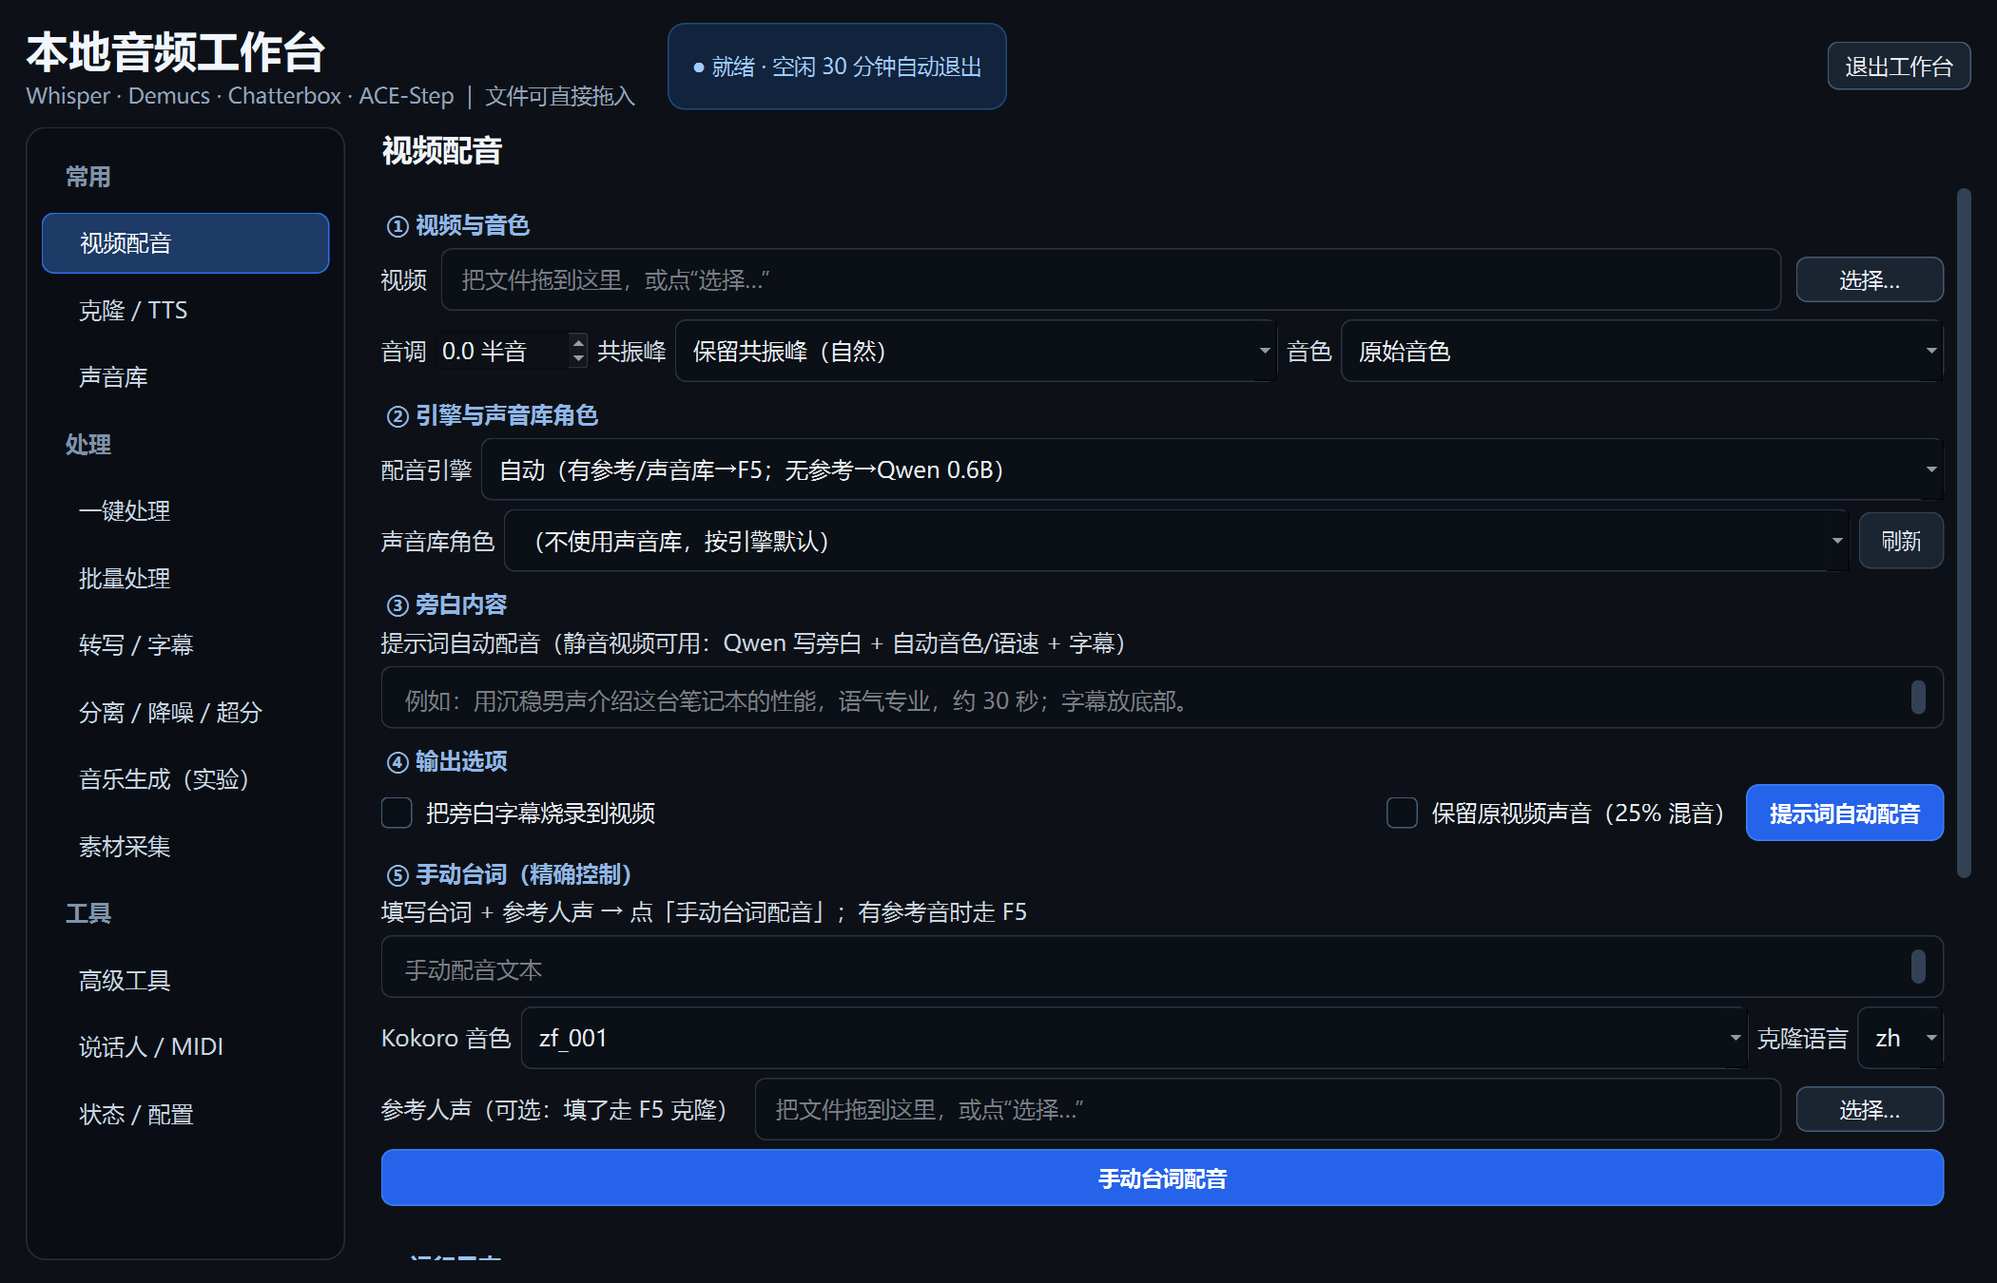
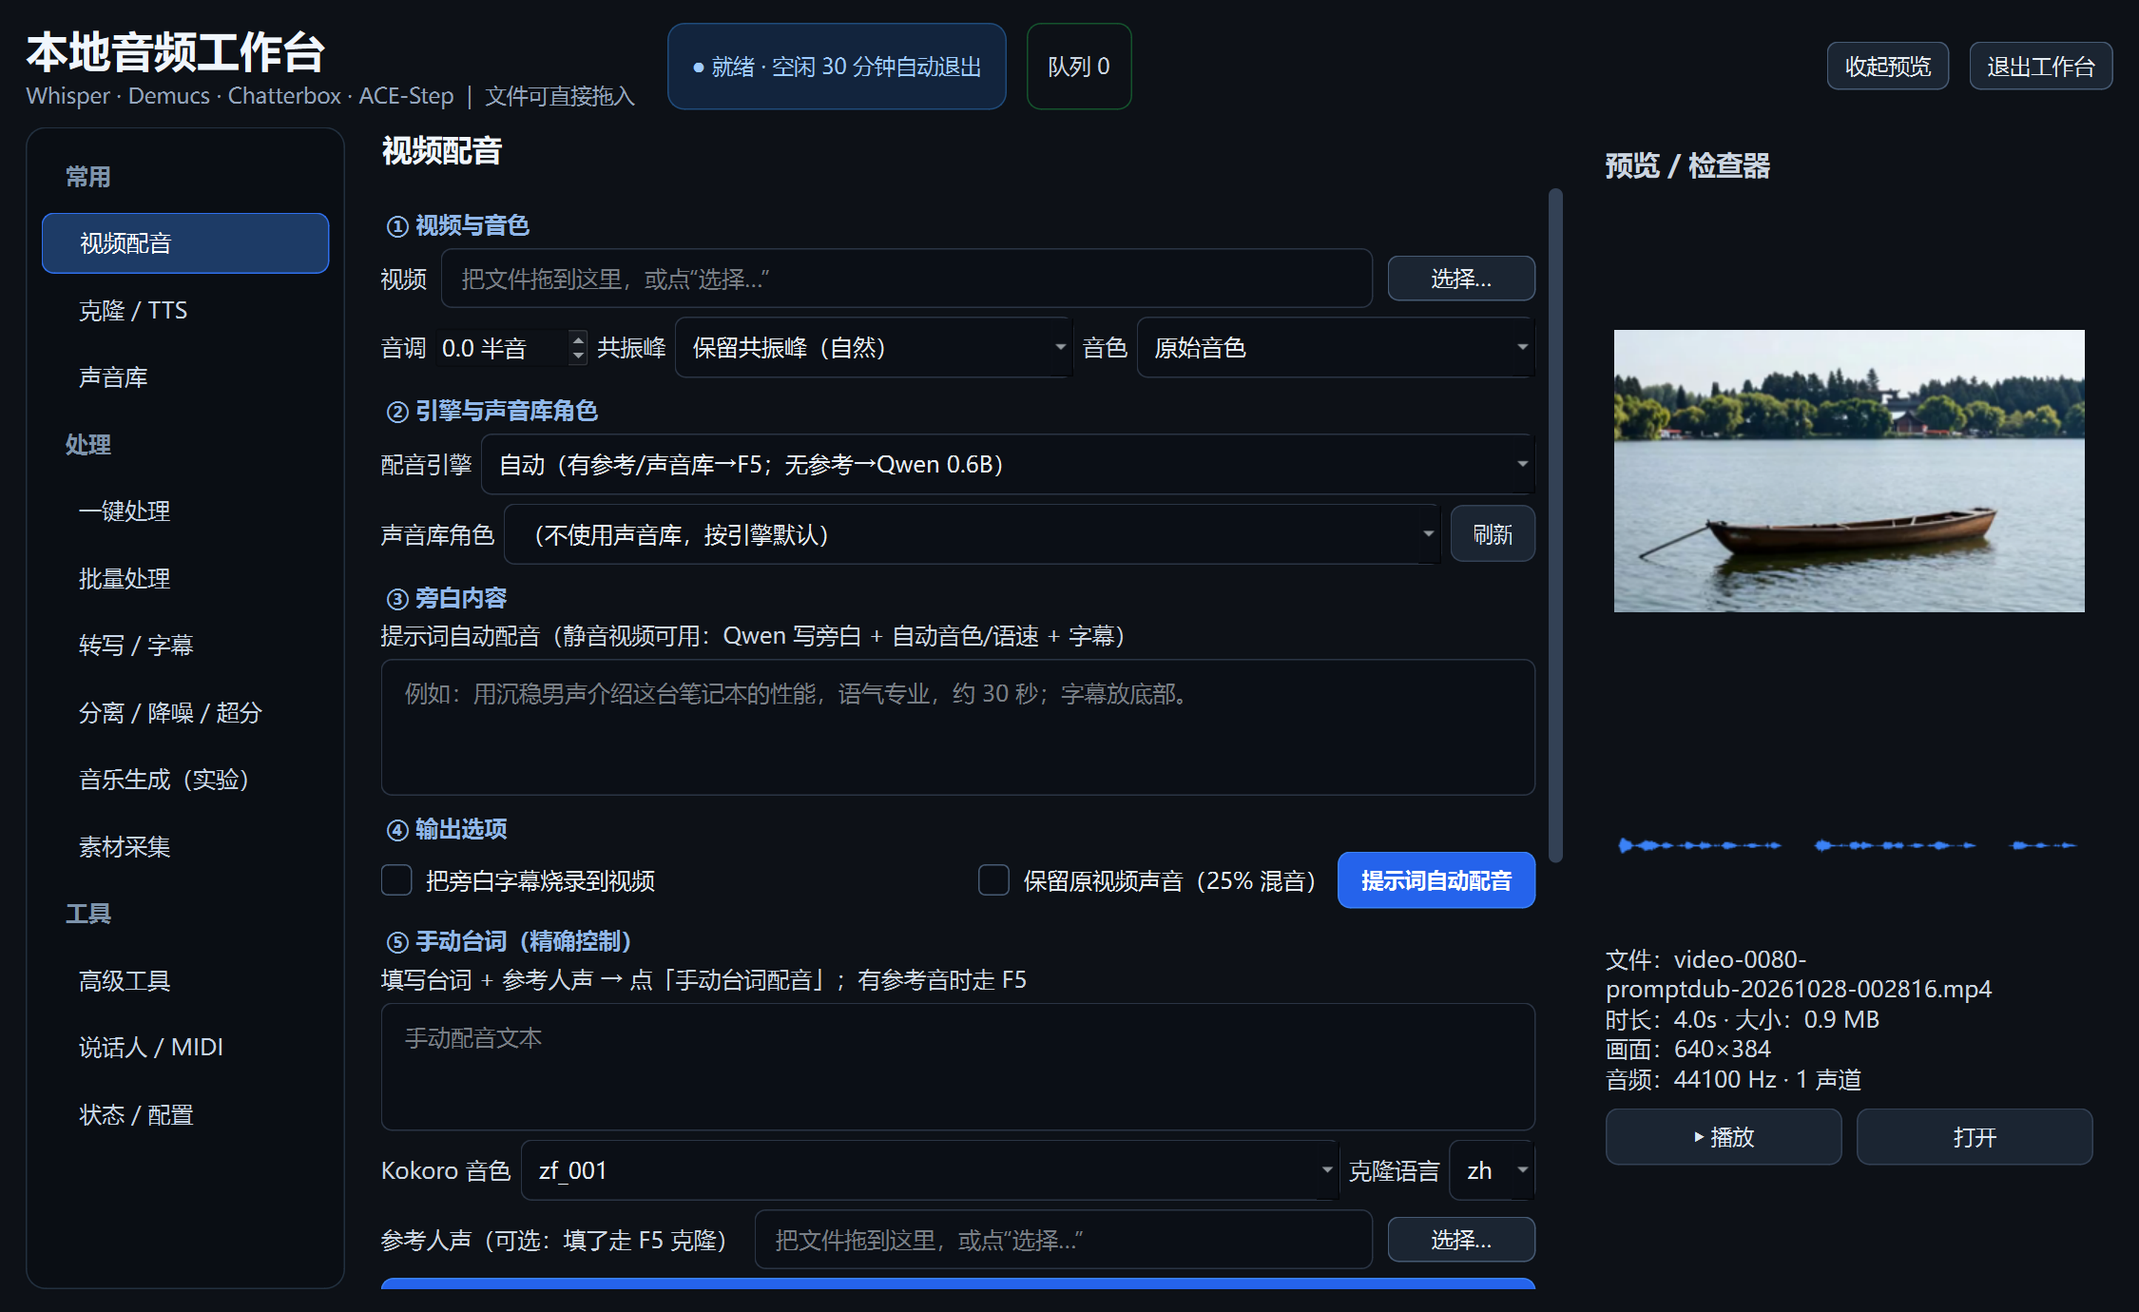
ui(workbench): three-column layout with media inspector (frame/waveform/info/play)

diff --git a/scripts/audio/desktop_qt.py b/scripts/audio/desktop_qt.py
@@ -1,13 +1,16 @@
 # -*- coding: utf-8 -*-
 """Audio workbench — native PySide6 desktop app (no Gradio / WebView)."""
+import json
 import os
+import subprocess
 import sys
+import tempfile
 import time
 import traceback
 from pathlib import Path
 
 from PySide6.QtCore import QEvent, QSettings, QThread, QTimer, Qt, QUrl, Signal
-from PySide6.QtGui import QDesktopServices, QFont, QGuiApplication, QPalette, QColor
+from PySide6.QtGui import QColor, QDesktopServices, QFont, QGuiApplication, QPalette, QPixmap
 from PySide6.QtWidgets import (
     QApplication, QCheckBox, QComboBox, QDoubleSpinBox, QFileDialog, QFormLayout, QGroupBox,
     QHBoxLayout, QLabel, QLineEdit, QListWidget, QListWidgetItem, QMainWindow,
@@ -47,7 +50,7 @@ QTabBar::tab:selected { background: #1b2638; color: #e6edf3; border: 1px solid #
 QTabBar::tab:hover { color: #e6edf3; background: #151d2a; }
 QLineEdit, QPlainTextEdit, QComboBox, QSpinBox {
     background: #0b0f16; border: 1px solid #2a3444; border-radius: 8px;
-    padding: 9px 12px; min-height: 24px; font-size: 12pt; color: #e6edf3; selection-background-color: #2f6fed; }
+    padding: 9px 12px; font-size: 12pt; color: #e6edf3; selection-background-color: #2f6fed; }
 QLineEdit:focus, QPlainTextEdit:focus, QComboBox:focus, QSpinBox:focus { border: 1px solid #3b82f6; }
 QLineEdit[dragActive="true"] { border: 1px solid #4ade80; background: #0f1f18; }
 QPushButton { background: #1b2532; border: 1px solid #334155; border-radius: 9px;
@@ -87,6 +90,10 @@ QListWidget#sideNav::item:selected { background: #1d3b66; border: 1px solid #2f6
 QListWidget#sideNav::item:hover { background: #15202f; }
 QListWidget#sideNav::item:disabled { color: #7d93ab; font-weight: 700; }
 QLabel#pageTitle { font-size: 21px; font-weight: 800; color: #f0f6fc; padding: 2px 4px 4px 4px; }
+QWidget#inspector { background: #0a0f16; border: 1px solid #22303f; border-radius: 14px; }
+QLabel#inspectorTitle { font-size: 14pt; font-weight: 800; color: #e6edf3; }
+QLabel#queuePill { color: #a7f3d0; font-size: 11pt; background: #0d2a1f; border: 1px solid #14532d;
+    border-radius: 10px; padding: 4px 10px; }
 QScrollArea { border: none; background: transparent; }
 """
 
@@ -330,6 +337,194 @@ class OutputList(QListWidget):
             QDesktopServices.openUrl(QUrl.fromLocalFile(path))
 
 
+class InspectorPanel(QWidget):
+    """右侧预览/检查器：视频帧、波形、音频信息、播放。"""
+
+    def __init__(self, parent=None):
+        super().__init__(parent)
+        self.setObjectName("inspector")
+        self.setFixedWidth(370)
+        self._path = ""
+        self._is_video = False
+        self.player = None
+        self.audio_out = None
+        self.video = None
+
+        v = QVBoxLayout(self)
+        v.setContentsMargins(14, 14, 14, 14)
+        v.setSpacing(10)
+        title = QLabel("预览 / 检查器")
+        title.setObjectName("inspectorTitle")
+        v.addWidget(title)
+
+        self.stack = QStackedWidget()
+        self.thumb = QLabel("视频预览")
+        self.thumb.setAlignment(Qt.AlignCenter)
+        self.thumb.setMinimumHeight(190)
+        self.thumb.setStyleSheet("background:#05070b;border:1px solid #1b2634;border-radius:8px;color:#5b6b80;")
+        self.stack.addWidget(self.thumb)
+        try:
+            from PySide6.QtMultimediaWidgets import QVideoWidget
+            self.video = QVideoWidget()
+            self.video.setMinimumHeight(190)
+            self.stack.addWidget(self.video)
+        except Exception:
+            self.video = None
+        v.addWidget(self.stack)
+
+        self.wave = QLabel("选择视频/音频后显示波形")
+        self.wave.setAlignment(Qt.AlignCenter)
+        self.wave.setMinimumHeight(120)
+        self.wave.setStyleSheet("background:#05070b;border:1px solid #1b2634;border-radius:8px;color:#5b6b80;")
+        v.addWidget(self.wave)
+
+        self.info = QLabel("尚未选择媒体")
+        self.info.setWordWrap(True)
+        self.info.setStyleSheet("color:#93a4bb;font-size:11pt;")
+        v.addWidget(self.info)
+
+        row = QHBoxLayout()
+        self.play_btn = QPushButton("▶ 播放")
+        self.play_btn.setEnabled(False)
+        self.play_btn.clicked.connect(self.toggle_play)
+        self.open_btn = QPushButton("打开")
+        self.open_btn.setEnabled(False)
+        self.open_btn.clicked.connect(self.open_external)
+        row.addWidget(self.play_btn)
+        row.addWidget(self.open_btn)
+        v.addLayout(row)
+        v.addStretch(1)
+
+        try:
+            from PySide6.QtMultimedia import QAudioOutput, QMediaPlayer
+            self.player = QMediaPlayer(self)
+            self.audio_out = QAudioOutput(self)
+            self.player.setAudioOutput(self.audio_out)
+            if self.video is not None:
+                self.player.setVideoOutput(self.video)
+            self.player.playbackStateChanged.connect(self._on_state)
+        except Exception:
+            self.player = None
+
+    @staticmethod
+    def _ffprobe(path):
+        try:
+            p = subprocess.run(
+                [r"D:\tools\ffmpeg\bin\ffprobe.exe", "-v", "error", "-show_entries",
+                 "format=duration,size:stream=codec_type,width,height,sample_rate,channels",
+                 "-of", "json", str(path)],
+                capture_output=True, text=True, encoding="utf-8", errors="replace", timeout=30)
+            return json.loads(p.stdout or "{}")
+        except Exception:
+            return {}
+
+    def _make_frame(self, path):
+        try:
+            out = Path(tempfile.gettempdir()) / ("wb_frame_" + str(abs(hash(path))) + ".png")
+            subprocess.run(
+                [r"D:\tools\ffmpeg\bin\ffmpeg.exe", "-y", "-ss", "0", "-i", str(path),
+                 "-frames:v", "1", "-vf", "scale=320:-2", str(out)],
+                capture_output=True, timeout=60)
+            pix = QPixmap(str(out))
+            return pix if not pix.isNull() else None
+        except Exception:
+            return None
+
+    def _make_wave(self, path):
+        try:
+            out = Path(tempfile.gettempdir()) / ("wb_wave_" + str(abs(hash(path))) + ".png")
+            subprocess.run(
+                [r"D:\tools\ffmpeg\bin\ffmpeg.exe", "-y", "-t", "120", "-i", str(path),
+                 "-filter_complex", "showwavespic=s=680x130:colors=#3b82f6",
+                 "-frames:v", "1", str(out)],
+                capture_output=True, timeout=90)
+            pix = QPixmap(str(out))
+            return pix if not pix.isNull() else None
+        except Exception:
+            return None
+
+    def _show_thumb(self):
+        if self._is_video and self.video is not None:
+            self.stack.setCurrentWidget(self.thumb)
+
+    def show_media(self, path):
+        path = (path or "").strip()
+        if not path or not Path(path).exists():
+            return
+        self._path = path
+        if self.player is not None:
+            self.player.stop()
+        ext = Path(path).suffix.lower()
+        self._is_video = ext in {".mp4", ".mov", ".mkv", ".webm", ".avi"}
+        if self._is_video:
+            self.stack.show()
+            pix = self._make_frame(path)
+            if pix is not None:
+                self.thumb.setPixmap(pix.scaledToWidth(330, Qt.SmoothTransformation))
+                self.thumb.setText("")
+            else:
+                self.thumb.setText("视频（无法提取画面）")
+            self._show_thumb()
+        else:
+            self.stack.hide()
+        wave = self._make_wave(path)
+        if wave is not None:
+            self.wave.setPixmap(wave.scaledToWidth(330, Qt.SmoothTransformation))
+            self.wave.setText("")
+        else:
+            self.wave.setPixmap(QPixmap())
+            self.wave.setText("无音轨或波形生成失败")
+        info = self._ffprobe(path)
+        fmt = info.get("format", {}) or {}
+        sec = float(fmt.get("duration") or 0)
+        size = float(fmt.get("size") or 0) / 1024 / 1024
+        lines = [f"文件：{Path(path).name}", f"时长：{sec:.1f}s · 大小：{size:.1f} MB"]
+        for st in info.get("streams", []) or []:
+            if st.get("codec_type") == "video":
+                lines.append(f"画面：{st.get('width')}×{st.get('height')}")
+            elif st.get("codec_type") == "audio":
+                lines.append(f"音频：{st.get('sample_rate')} Hz · {st.get('channels')} 声道")
+        self.info.setText("\n".join(lines))
+        if self.player is not None:
+            self.player.setSource(QUrl.fromLocalFile(path))
+        self.play_btn.setEnabled(self.player is not None)
+        self.open_btn.setEnabled(True)
+
+    def show_result(self, files):
+        files = [str(x) for x in (files or []) if Path(str(x)).exists()]
+        if not files:
+            return
+        videos = [x for x in files if Path(x).suffix.lower() in {".mp4", ".mov", ".mkv", ".webm"}]
+        audit = [x for x in files if Path(x).suffix.lower() in {".wav", ".mp3", ".flac", ".m4a"}]
+        if videos:
+            self.show_media(videos[0])
+        elif audit:
+            self.show_media(audit[0])
+
+    def toggle_play(self):
+        if self.player is None:
+            return
+        if self.player.playbackState() == self.player.PlaybackState.PlayingState:
+            self.player.stop()
+            self._show_thumb()
+            return
+        if self._is_video and self.video is not None:
+            self.stack.setCurrentWidget(self.video)
+        self.player.play()
+
+    def _on_state(self, state):
+        if self.player is None:
+            return
+        playing = state == self.player.PlaybackState.PlayingState
+        self.play_btn.setText("⏸ 暂停" if playing else "▶ 播放")
+        if not playing:
+            self._show_thumb()
+
+    def open_external(self):
+        if self._path:
+            QDesktopServices.openUrl(QUrl.fromLocalFile(self._path))
+
+
 class MainWindow(QMainWindow):
     def __init__(self):
         super().__init__()
@@ -357,6 +552,7 @@ class MainWindow(QMainWindow):
         layout = QVBoxLayout(root)
         layout.setContentsMargins(18, 16, 18, 16)
         layout.setSpacing(12)
+        self.inspector = InspectorPanel()
 
         header = QHBoxLayout()
         header.setSpacing(14)
@@ -364,10 +560,10 @@ class MainWindow(QMainWindow):
         title_box.setSpacing(2)
         title = QLabel("本地音频工作台")
         title.setObjectName("appTitle")
-        title.setStyleSheet("color:#f0f6fc;font-size:23px;font-weight:800;")
+        title.setStyleSheet("color:#f0f6fc;font-size:30px;font-weight:800;")
         subtitle = QLabel("Whisper · Demucs · Chatterbox · ACE-Step  |  文件可直接拖入")
         subtitle.setObjectName("appSubtitle")
-        subtitle.setStyleSheet("color:#7d8da4;font-size:9.5pt;")
+        subtitle.setStyleSheet("color:#93a4bb;font-size:11.5pt;")
         title_box.addWidget(title)
         title_box.addWidget(subtitle)
         header.addLayout(title_box)
@@ -378,12 +574,23 @@ class MainWindow(QMainWindow):
             "color:#9ecbff;font-size:11.5pt;background:#12243d;border:1px solid #1f4b7a;"
             "border-radius:12px;padding:5px 12px;")
         header.addWidget(self.status_label, 0)
+        self.queue_label = QLabel("队列 0")
+        self.queue_label.setObjectName("queuePill")
+        header.addWidget(self.queue_label)
         header.addStretch(1)
         self.progress = QProgressBar()
         self.progress.setRange(0, 0)
         self.progress.setFixedWidth(130)
         self.progress.hide()
         header.addWidget(self.progress)
+        self.preview_btn = QPushButton("收起预览")
+        self.preview_btn.setProperty("secondary", True)
+        self.preview_btn.setStyleSheet(
+            "QPushButton{color:#e6edf3;background:#1b2532;border:1px solid #465a73;"
+            "border-radius:8px;padding:6px 12px;}"
+            "QPushButton:hover{background:#243244;border-color:#64748b;}")
+        self.preview_btn.clicked.connect(self._toggle_inspector)
+        header.addWidget(self.preview_btn)
         quit_btn = QPushButton("退出工作台")
         quit_btn.setProperty("secondary", True)
         quit_btn.setStyleSheet(
@@ -414,6 +621,7 @@ class MainWindow(QMainWindow):
         body_lay.setSpacing(16)
         body_lay.addWidget(self.nav)
         body_lay.addLayout(right, 1)
+        body_lay.addWidget(self.inspector)
         layout.addWidget(body, 1)
 
         nav_spec = [
@@ -534,6 +742,7 @@ class MainWindow(QMainWindow):
     def start_task(self, fn, args, log, outputs, preview_label=None):
         if self.backend.is_busy() or self.worker is not None:
             self.task_queue.append((fn, args, log, outputs, preview_label))
+            self._update_queue_label()
             self.status_label.setText(f"＋ 已排队 {len(self.task_queue)} 个任务 · 当前完成后自动执行")
             return
         self.backend.touch()
@@ -545,6 +754,19 @@ class MainWindow(QMainWindow):
         self.worker = TaskThread(fn, args)
         self.worker.done.connect(lambda result: self.finish_task(result, log, outputs, preview_label))
         self.worker.start()
+
+    def _toggle_inspector(self):
+        visible = self.inspector.isVisible()
+        self.inspector.setVisible(not visible)
+        self.preview_btn.setText("显示预览" if visible else "收起预览")
+
+    def _update_queue_label(self):
+        n = len(getattr(self, "task_queue", []))
+        self.queue_label.setText(f"队列 {n}" if n else "队列 0")
+
+    def _preview_path(self, path):
+        if path and Path(path).exists():
+            self.inspector.show_media(path)
 
     def finish_task(self, result, log, outputs, preview_label):
         self.backend.touch()
@@ -561,6 +783,11 @@ class MainWindow(QMainWindow):
             self.status_label.setText("✓ 完成 · 产物已生成")
         else:
             self.status_label.setText("✓ 完成（无产物文件）")
+        try:
+            self.inspector.show_result(result.get("files") or [])
+        except Exception:
+            pass
+        self._update_queue_label()
         if self.task_queue:
             nxt = self.task_queue.pop(0)
             self.status_label.setText(f"▶ 队列执行中 · 剩余 {len(self.task_queue)} 个")
@@ -804,6 +1031,7 @@ class MainWindow(QMainWindow):
         w = QWidget()
         v = QVBoxLayout(w)
         self.clone_ref = PathRow("参考人声（5–30 秒）", "audio")
+        self.clone_ref.edit.textChanged.connect(lambda: self._preview_path(self.clone_ref.path()))
         v.addWidget(self.clone_ref)
         self.clone_text = QPlainTextEdit()
         self.clone_text.setPlaceholderText("要克隆朗读的文本")
@@ -910,6 +1138,7 @@ class MainWindow(QMainWindow):
         v = QVBoxLayout(w)
         v.addWidget(self._section_label("① 视频与音色"))
         self.dub_video = PathRow("视频", "video")
+        self.dub_video.edit.textChanged.connect(lambda: self._preview_path(self.dub_video.path()))
         v.addWidget(self.dub_video)
 
         row_fx = QHBoxLayout()
@@ -1208,6 +1437,10 @@ class MainWindow(QMainWindow):
         self.voice_meta.setText(
             f"来源：{profile.get('source', '')}\n参考：{profile.get('reference', '')}\n"
             f"标签：{'、'.join(profile.get('tags', []) or [])}")
+        try:
+            self.inspector.show_media(str(profile.get("reference") or ""))
+        except Exception:
+            pass
 
     def run_voice_generate(self):
         item = self.voice_list.currentItem()

diff --git a/docs/27-ui-redesign.md b/docs/27-ui-redesign.md
@@ -4,10 +4,12 @@
 
 | 项 | 旧 | 新 |
 |---|---|---|
-| 导航 | 顶部 12 个页签，文字小、挤 | **左侧分组导航**：常用 / 处理 / 工具，菜单更清楚 |
+| 布局 | 顶部 12 页签 + 单列表单 | **左导航 + 中间工作区 + 右侧检查器** 三栏 |
+| 导航 | 顶部 12 个页签，文字小、挤 | 左侧分组导航：常用 / 处理 / 工具 |
 | 字号 | 10pt 基准 | **12pt 基准**，标题 30px，输入框/按钮同步放大 |
 | 窗口 | 最小 900×650 | 最小 1060×720，默认更大；内容页自动滚动 |
-| 页面标题 | 无 | 右侧顶部显示当前页名称（21px） |
+| 页面标题 | 无 | 工作区顶部显示当前页名称（21px） |
+| 右侧检查器 | 无 | 视频帧 / 波形 / 时长大小 / 播放 / 打开，可收起 |
 | 视频配音页 | 字段平铺 | ① 视频与音色 / ② 引擎与声音库角色 / ③ 旁白内容 / ④ 输出选项 / ⑤ 手动台词 |
 | 复选框 | 深色下几乎看不见 | 20px 方框，选中蓝色 |
 | 输入框 | 偏小 | 高度和内边距加大，按钮加大 |
@@ -18,6 +20,8 @@
 - 左侧点「视频配音 / 克隆 / TTS / 声音库」等切换页面
 - 页面右侧有滚动条，内容多时上下滚动
 - 「提示词自动配音」和「手动台词配音」现在分属 ③/⑤ 两段，不再混在一起
+- 选择视频/参考音，或任务完成后，右侧自动显示画面/波形与媒体信息
+- 顶部「队列 0」显示排队数量；「收起预览」可隐藏检查器
 - 提示词框、日志框加高，方便看内容
 - 运行中再点任务仍会进入队列（P2）
 

diff --git a/docs/25-dubbing-manual.md b/docs/25-dubbing-manual.md
@@ -60,7 +60,8 @@
 
 ## 3. 界面字段说明
 
-> 新版界面为**左侧导航 + 右侧内容区**，字号已放大；左侧分「常用 / 处理 / 工具」三组。
+> 新版界面为**左侧导航 + 中间工作区 + 右侧预览/检查器**；字号已放大，左侧分「常用 / 处理 / 工具」三组。
+> 选择视频/参考音或任务完成后，右侧会显示画面、波形、时长与播放/打开按钮；顶部可「收起预览」。
 
 | 字段 | 作用 | 建议 |
 |---|---|---|
